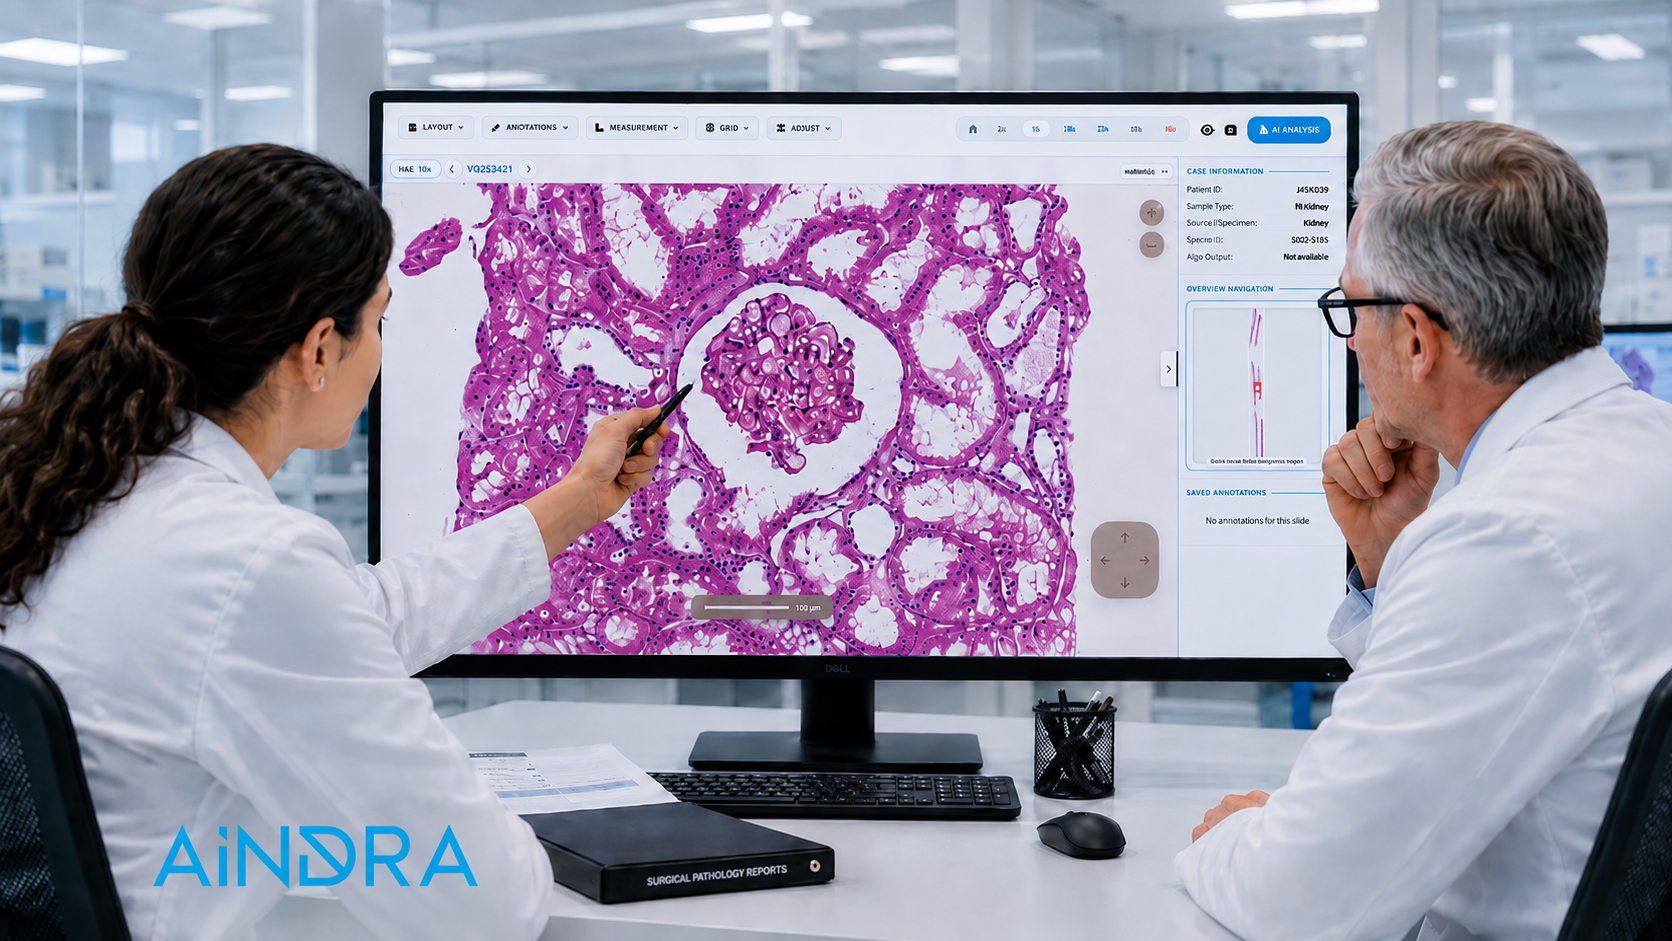
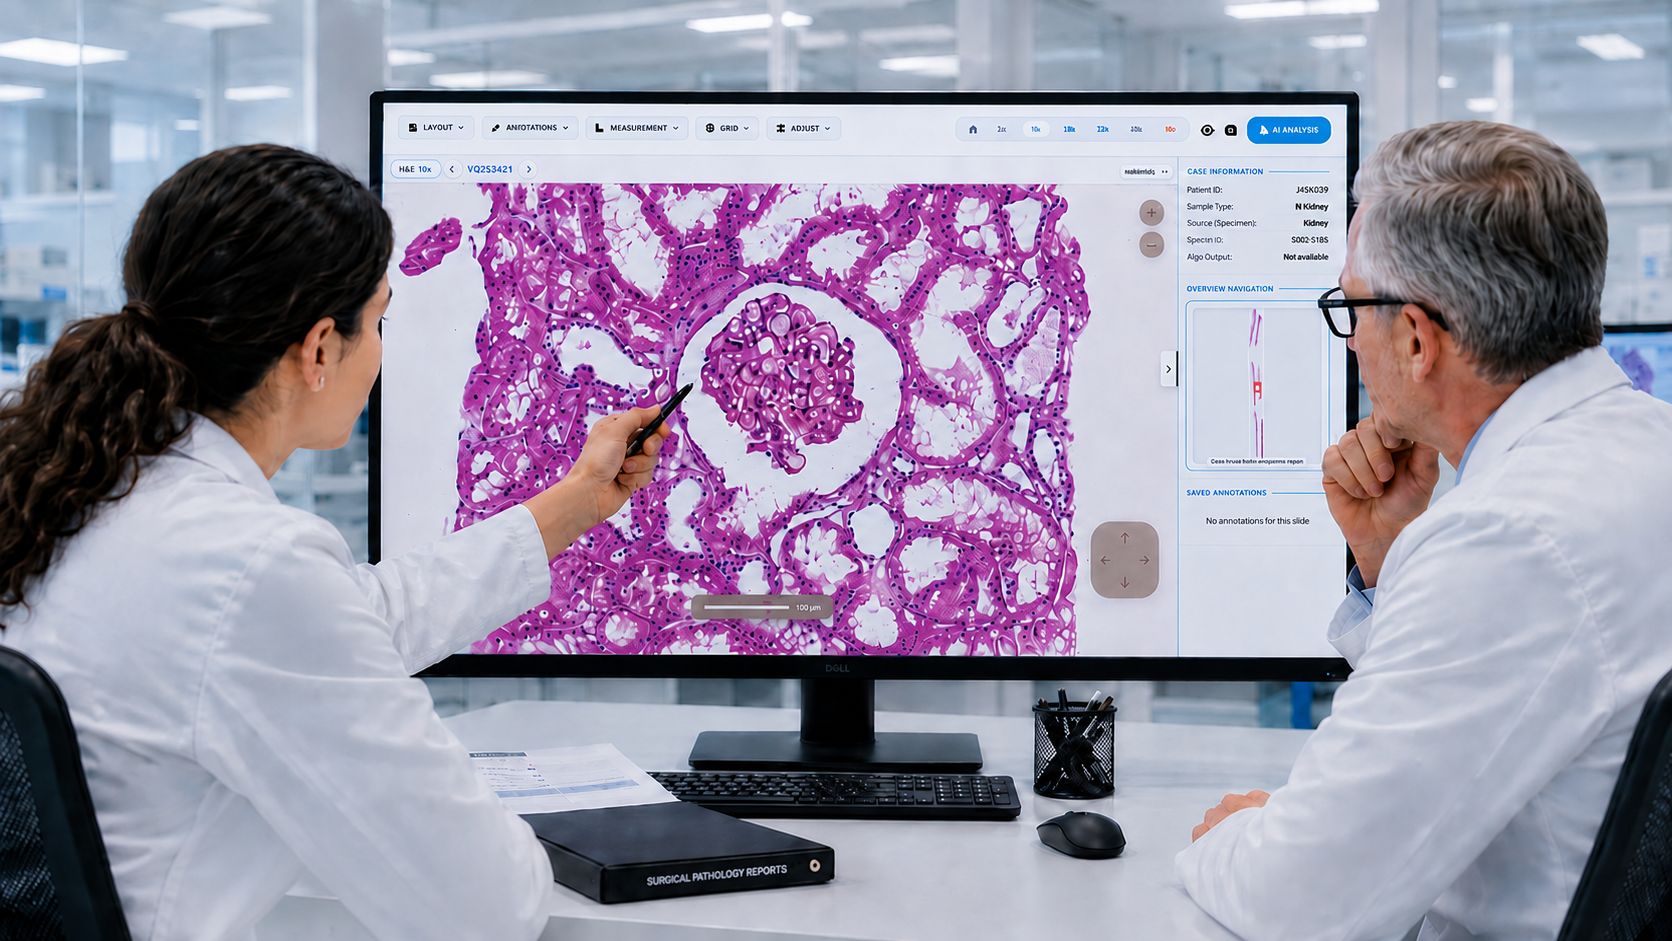
fix(home): refine Solutions alignment and update homepage media assets
- adjust Our Solutions heading/image positioning for improved right-side alignment

- tune left-panel solution text rendering to prevent truncation/cutting and improve readability

- update homepage visual assets: ClustrHomePage image and TrustedBy logos (dr-mufti, images.jpeg)

diff --git a/AindraNewWebsite_Final/components/SolutionsShowcase.tsx b/AindraNewWebsite_Final/components/SolutionsShowcase.tsx
@@ -137,7 +137,7 @@ export const SolutionsShowcase: React.FC = () => {
             <div className="col-span-12 lg:col-span-3">
               <SectionEyebrow label="Our Solutions" />
             </div>
-            <div className="col-span-12 lg:col-span-9">
+            <div className="col-span-12 lg:col-span-9 lg:translate-x-24 xl:translate-x-32">
               <h2 className={`${isCompactHeight ? 'text-[clamp(1.9rem,2.7vw,2.3rem)] md:text-[clamp(2rem,2.85vw,2.4rem)]' : 'text-3xl md:text-5xl lg:text-6xl'} max-h-[900px]:text-[clamp(2.2rem,3.2vw,2.9rem)] max-h-[900px]:leading-[1.05] max-h-[820px]:text-[clamp(2rem,3vw,2.6rem)] font-medium text-slate-900 leading-[1.1] max-w-4xl`}>
                 AI modules for every stage of clinical pathology.
               </h2>
@@ -164,7 +164,7 @@ export const SolutionsShowcase: React.FC = () => {
                   }}
                 ></div>
 
-                <div className={`flex flex-col ${isCompactHeight ? 'space-y-5' : 'space-y-7'}`}>
+                <div className={`flex flex-col ${isCompactHeight ? 'space-y-4' : 'space-y-5'}`}>
                   {solutions.map((s, idx) => (
                     <button 
                       key={s.id}
@@ -174,7 +174,7 @@ export const SolutionsShowcase: React.FC = () => {
                       <div className={`relative w-2 h-2 rounded-full border-2 transition-all duration-500 z-10
                         ${idx === activeIndex ? 'bg-cyan-500 border-cyan-500 scale-125' : 'bg-white border-slate-200 group-hover:border-slate-400'}`}
                       />
-                  <span className={`text-2xl ${isCompactHeight ? 'lg:text-[24px]' : 'lg:text-3xl'} font-bold tracking-tight transition-all duration-500
+                  <span className={`text-xl ${isCompactHeight ? 'lg:text-[21px]' : 'lg:text-[2rem]'} font-bold tracking-tight transition-all duration-500
                         ${idx === activeIndex ? 'text-[#00A0E9] translate-x-1' : 'text-slate-300 group-hover:text-slate-500'}`}>
                         {s.name}
                       </span>
@@ -184,14 +184,16 @@ export const SolutionsShowcase: React.FC = () => {
               </div>
 
               {/* Description swapping */}
-              <div className={`relative ${isCompactHeight ? 'h-28' : 'h-44'}`}>
+              <div className={`relative ${isCompactHeight ? 'min-h-[170px]' : 'min-h-[220px]'}`}>
                 {solutions.map((s, idx) => (
                   <div 
                     key={s.id}
                     className={`absolute inset-0 transition-all duration-700 ease-in-out
                       ${idx === activeIndex ? 'opacity-100 translate-y-0' : 'opacity-0 translate-y-8 pointer-events-none'}`}
                   >
-                    <p className={`${isCompactHeight ? 'text-base lg:text-lg' : 'text-xl lg:text-2xl'} text-slate-500 leading-relaxed font-light max-w-md`}>
+                    <p
+                      className={`${isCompactHeight ? 'text-[14px] lg:text-[15px]' : 'text-base lg:text-lg'} text-slate-500 leading-relaxed font-light max-w-md`}
+                    >
                       {s.description}
                     </p>
                   </div>
@@ -200,7 +202,7 @@ export const SolutionsShowcase: React.FC = () => {
             </div>
 
             {/* Right side: Medical Illustration swapping with glows */}
-            <div className={`col-span-12 lg:col-span-9 relative order-1 lg:order-2 ${isCompactHeight ? 'aspect-[11/6] max-h-[42vh]' : 'aspect-[11/6]'} max-h-[900px]:max-h-[40vh] max-h-[820px]:max-h-[37vh]`}>
+            <div className={`col-span-12 lg:col-span-9 relative order-1 lg:order-2 lg:translate-x-24 xl:translate-x-32 ${isCompactHeight ? 'aspect-[11/6] max-h-[38vh]' : 'aspect-[11/6] max-h-[50vh]'} max-h-[900px]:max-h-[36vh] max-h-[820px]:max-h-[34vh]`}>
               {solutions.map((s, idx) => (
                 <div 
                   key={idx}
@@ -224,15 +226,6 @@ export const SolutionsShowcase: React.FC = () => {
           </div>
         </div>
 
-        {/* Vertical Pagination Indicator (Far Right) */}
-        <div className="absolute right-12 top-1/2 -translate-y-1/2 hidden xl:flex flex-col space-y-4">
-          {solutions.map((_, idx) => (
-            <div 
-              key={idx}
-              className={`w-1 rounded-full transition-all duration-700 ${idx === activeIndex ? 'bg-cyan-500 h-8' : 'bg-slate-200 h-2'}`}
-            />
-          ))}
-        </div>
       </section>
     </div>
     </>